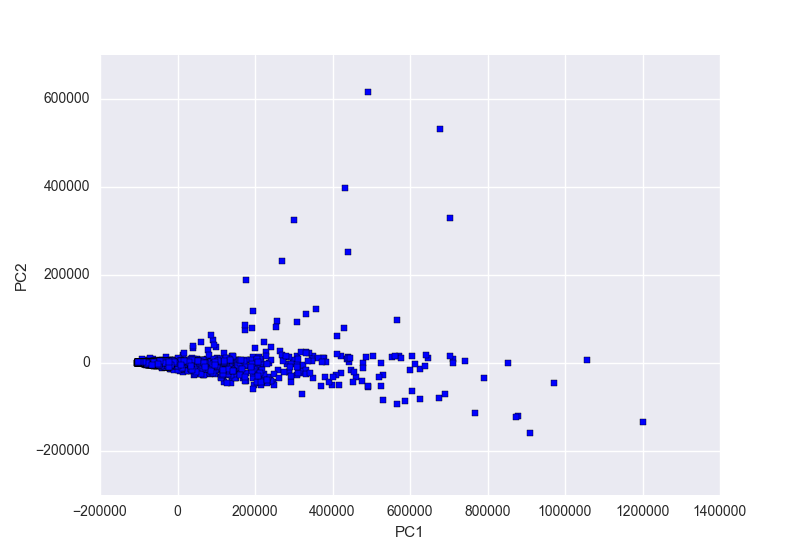
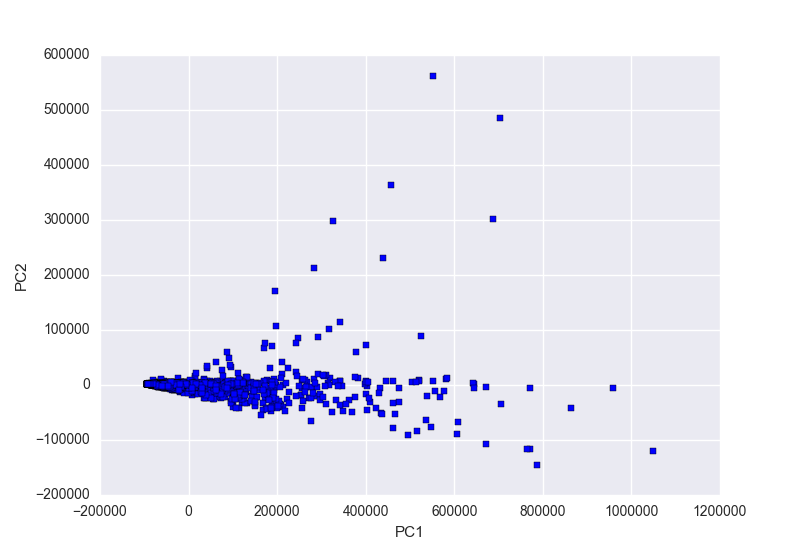
update factor analysis

diff --git a/factor.py b/factor.py
@@ -2,22 +2,51 @@ import pandas as pd
 import numpy as np
 import matplotlib.pyplot as plt
 import seaborn as sbn
+
+from matplotlib.font_manager import FontProperties
 from sklearn.decomposition import PCA
 from sklearn import svm
 
-df = pd.read_csv('data/csv/input.csv', header=-1, skiprows=1, encoding='utf-8')
-del(df[1])
-del(df[12])
-pca = PCA(n_components=2, whiten=False)
-pca.fit(df)
-pca_point = pca.transform(df)
 
-clf = svm.LinearSVC()
+def main():
+    fp = FontProperties(fname='/Library/Fonts/ヒラギノ丸ゴ ProN W4.ttc', size=8)
+    factor(fp=fp)
 
-for i, point in enumerate(pca_point):
-    plt.scatter(*point, marker=",")
 
-plt.xlabel('PC1')
-plt.ylabel('PC2')
-plt.savefig('data/picture/factor.png')
-plt.show()
+def factor(is_log=True, is_tmp=False, fp=None):
+    assert fp
+
+    if is_log is True:
+        df = pd.read_csv('data/csv/input_log.csv', encoding='utf-8')
+    else:
+        df = pd.read_csv('data/csv/input.csv', encoding='utf-8')
+    df_index = df['name']
+    df = df.drop('name', axis=1)
+    pca = PCA(n_components=2, whiten=False)
+    pca_point = pca.fit_transform(df)
+
+    clf = svm.LinearSVC()
+
+    # for i in range(len(df_index)):
+    #     plt.scatter(pca_point[i, 0], pca_point[i, 1])
+
+    fig, ax = plt.subplots()
+    ax.scatter(pca_point[:, 0], pca_point[:, 1])
+    for i, txt in enumerate(df_index):
+        if '村' in txt:
+            ax.annotate(txt, (pca_point[i, 0], pca_point[i, 1]), fontproperties=fp)
+        else:
+            ax.annotate('', (pca_point[i, 0], pca_point[i, 1]), fontproperties=fp)
+
+    plt.xlabel('PC1')
+    plt.ylabel('PC2')
+    if is_tmp is True:
+        if is_log is True: plt.savefig('data/picture/factor_log_tmp.png')
+        else: plt.savefig('data/picture/factor_tmp.png')
+    else:
+        if is_log is True: plt.savefig('data/picture/factor_log.png')
+        else: plt.savefig('data/picture/factor.png')
+    plt.show()
+
+if __name__ == '__main__':
+    main()
